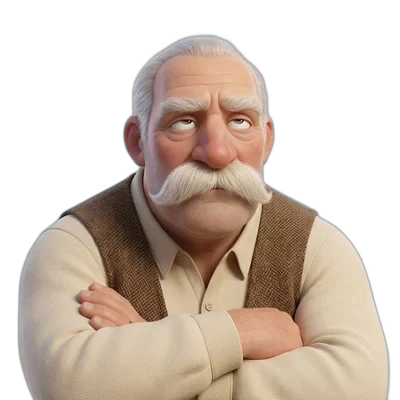
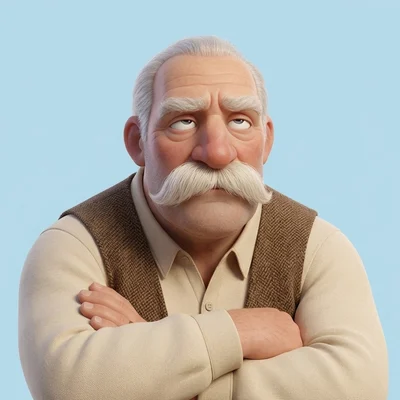
Revert stage art cut-outs, back to framed circles
Claude-Session: https://claude.ai/code/session_01M9ZDUbjKpGEk8p1AQBRCfY

diff --git a/index.html b/index.html
@@ -159,14 +159,6 @@ body::before{content:"";position:fixed;inset:0 0 auto;height:env(safe-area-inset
 .tabs{display:flex;flex-wrap:wrap;gap:8px;margin-top:24px}
 .tab{font:800 17px/1 var(--body);border:0;cursor:pointer;border-radius:var(--r-pill);padding:7px 22px 7px 7px;background:var(--chip);color:var(--ink);display:inline-flex;align-items:center;gap:12px}
 .tab .art{width:60px;background:var(--white)}
-/* cut-out art: no backdrop, the character sits on the section's own colour */
-.art:not(.ph){background:transparent!important;box-shadow:none!important}
-.fband .art:not(.ph),.stair .art:not(.ph),.rung .art:not(.ph){border-radius:0;overflow:visible}
-.art:not(.ph) img{object-fit:contain;object-position:50% 100%}
-.fband{overflow:hidden}
-.fband .art:not(.ph){align-self:flex-end;margin-bottom:-14px}
-.stair .art:not(.ph) img,.rung .art:not(.ph) img{-webkit-mask-image:linear-gradient(#000 70%,transparent);mask-image:linear-gradient(#000 70%,transparent)}
-@media (max-width:640px){.fband .art:not(.ph){margin-bottom:-12px}}
 @media (max-width:560px){.tabs{display:grid;grid-template-columns:1fr;gap:8px}.tab{font-size:17px;padding:6px 18px 6px 6px;gap:12px;width:100%}.tab .art{width:56px}}
 .tab[aria-selected="true"]{background:var(--ink);color:var(--white)}
 .format{margin-top:26px}
